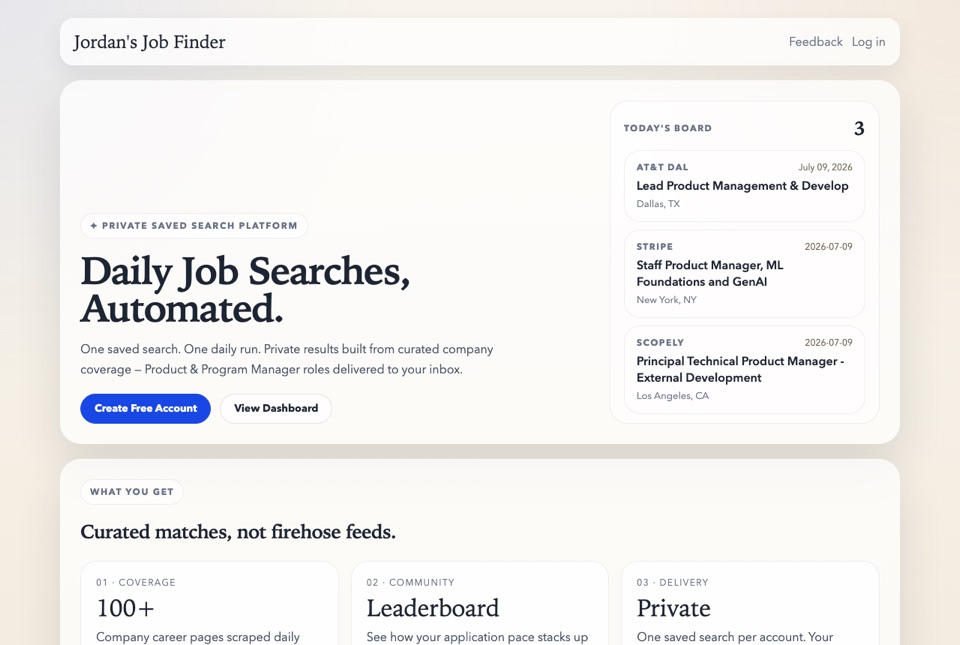
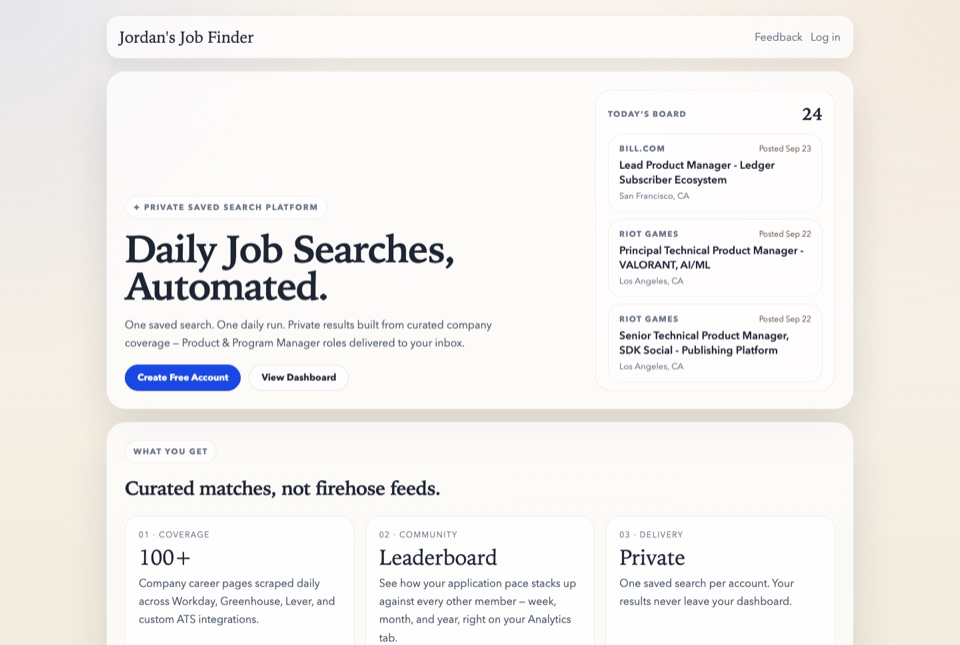
Put Marracat on the App Store in the portfolio and refresh screenshots
Marracat 1.0 went live on the App Store today. Its card (live since
9/13 but never committed) described the 9/13 app: one brand store per
checkout and no catalog numbers. It now shows the web + iPhone stack
like Find A Crib, the App Store link, and what the product does today:
~1,000 brands, 288 aisles, one set of checkout details across brands.
Wording stays with marracat.com's own positioning (independent brands).

Retook the web screenshots from the live sites (Sputter Bets with the
friends' names stripped from its pick rows). Apps shipped now lists
Marracat (App Store + marracat.com) and Haukley (TestFlight +
haukley.com): 12 iOS / 5 live / 7 beta / 15 web.

Changed region(s): [[0.0625, 0.031, 0.9375, 1.0]]

diff --git a/portfolio.html b/portfolio.html
@@ -29,7 +29,7 @@
                 <article class="portfolio-item portfolio-item-featured">
                     <div class="portfolio-thumb-stack">
                         <div class="portfolio-thumb portfolio-thumb-web">
-                            <a href="https://findacrib.com" target="_blank"><img src="screenshots/findacrib.jpg?v=2" alt="Find A Crib NYC rent-stabilized buildings map screenshot" width="960" height="600" decoding="async"></a>
+                            <a href="https://findacrib.com" target="_blank"><img src="screenshots/findacrib.jpg?v=3" alt="Find A Crib NYC rent-stabilized buildings map screenshot" width="960" height="600" decoding="async"></a>
                         </div>
                         <div class="portfolio-thumb portfolio-thumb-mobile">
                             <img src="screenshots/findacrib-ios.jpg?v=1" alt="Find A Crib iPhone app search screen with rent-stabilized, available-now and voucher filters" width="202" height="440" loading="lazy" decoding="async">
@@ -78,6 +78,30 @@
                 </article>
 
                 <article class="portfolio-item">
+                    <div class="portfolio-thumb-stack">
+                        <div class="portfolio-thumb portfolio-thumb-web">
+                            <a href="https://marracat.com" target="_blank" rel="noopener"><img src="screenshots/marracat.jpg?v=2" alt="Marracat storefront home page with departments, search, and featured brands" width="960" height="600" loading="lazy" decoding="async"></a>
+                        </div>
+                        <div class="portfolio-thumb portfolio-thumb-mobile">
+                            <img src="screenshots/marracat-ios.jpg?v=1" alt="Marracat iPhone app home screen with featured brand, new arrivals, and deals" width="202" height="440" loading="lazy" decoding="async">
+                        </div>
+                    </div>
+                    <div class="portfolio-body">
+                        <h3>Marracat &mdash; Your Next Favorite Brand, All in One Place (Web + iPhone App)</h3>
+                        <p class="project-date is-live" data-app-store="6810905687">On the App Store &middot; released Sep 23, 2026</p>
+                        <ul>
+                            <li>Nearly 1,000 independent brands and 39,000+ products in one store &mdash; fashion, beauty, bags, home, and everyday essentials, pulled straight from each brand&rsquo;s own shop</li>
+                            <li>Shop the way a department store is laid out: 288 aisles like &ldquo;tote bag&rdquo; or &ldquo;deep conditioner&rdquo; that search every brand at once, and a search box that finishes your phrase as you type</li>
+                            <li>One cart across every brand: enter your details once, see real shipping and totals per store, and pay each brand directly &mdash; the brand keeps the sale, the shipping, and the returns</li>
+                            <li>Save items into your own lists, and a Marracat Clean badge flags hair, skin, makeup, and body products with no ingredients banned anywhere</li>
+                            <li>Stack: SwiftUI, React + Vite, Node/Express + SQLite, Shopify product feeds, Checkout Kit and UCP checkout, an AI model that re-files misplaced products, and nginx on DigitalOcean</li>
+                        </ul>
+                        <a href="https://marracat.com" target="_blank" rel="noopener">Visit Live Site &rarr;</a> &nbsp;&nbsp;
+                        <a href="https://apps.apple.com/us/app/marracat/id6810905687" target="_blank" rel="noopener">Download on the App Store &rarr;</a>
+                    </div>
+                </article>
+
+                <article class="portfolio-item">
                     <div class="portfolio-thumb portfolio-thumb-mobile">
                         <img src="screenshots/crease.jpg?v=1" alt="Crease order list showing two-leg dry cleaning progress" width="202" height="440" loading="lazy" decoding="async">
                     </div>
@@ -109,7 +133,7 @@
 
                 <article class="portfolio-item">
                     <div class="portfolio-thumb portfolio-thumb-web">
-                        <a href="https://caprecruiting.com" target="_blank"><img src="screenshots/bearcats.jpg?v=2" alt="Collegiate Athletic Planning landing page screenshot" width="960" height="600" loading="lazy" decoding="async"></a>
+                        <a href="https://caprecruiting.com" target="_blank"><img src="screenshots/bearcats.jpg?v=3" alt="Collegiate Athletic Planning landing page screenshot" width="960" height="600" loading="lazy" decoding="async"></a>
                     </div>
                     <div class="portfolio-body">
                         <h3>Collegiate Athletic Planning &mdash; Getting High School Players Recruited</h3>
@@ -159,7 +183,7 @@
 
                 <article class="portfolio-item">
                     <div class="portfolio-thumb portfolio-thumb-web">
-                        <a href="https://sputterbets.com/" target="_blank"><img src="screenshots/nfl-predictor.jpg?v=1" alt="Sputter Bets week-by-week NFL picks with win-probability meters" width="960" height="600" loading="lazy" decoding="async"></a>
+                        <a href="https://sputterbets.com/" target="_blank"><img src="screenshots/nfl-predictor.jpg?v=2" alt="Sputter Bets week-by-week NFL picks with win-probability meters" width="960" height="600" loading="lazy" decoding="async"></a>
                     </div>
                     <div class="portfolio-body">
                         <h3>Sputter Bets &mdash; NFL Picks That Retrain Themselves Every Morning</h3>
@@ -176,7 +200,7 @@
 
                 <article class="portfolio-item">
                     <div class="portfolio-thumb portfolio-thumb-web">
-                        <a href="https://nemoseamlessgutter.com" target="_blank"><img src="screenshots/nemo.jpg?v=2" alt="NEMO Seamless Gutter homepage" width="960" height="645" loading="lazy" decoding="async"></a>
+                        <a href="https://nemoseamlessgutter.com" target="_blank"><img src="screenshots/nemo.jpg?v=3" alt="NEMO Seamless Gutter homepage" width="960" height="645" loading="lazy" decoding="async"></a>
                     </div>
                     <div class="portfolio-body">
                         <h3>NEMO Seamless Gutter &mdash; Booking That Checks the Weather, Plus an AI Phone Assistant</h3>
@@ -203,7 +227,7 @@
 
                 <article class="portfolio-item">
                     <div class="portfolio-thumb portfolio-thumb-web">
-                        <a href="https://skillsinbloom.com" target="_blank"><img src="screenshots/skills-in-bloom.jpg?v=1" alt="Skills in Bloom pediatric occupational therapy homepage" width="960" height="645" loading="lazy" decoding="async"></a>
+                        <a href="https://skillsinbloom.com" target="_blank"><img src="screenshots/skills-in-bloom.jpg?v=2" alt="Skills in Bloom pediatric occupational therapy homepage" width="960" height="645" loading="lazy" decoding="async"></a>
                     </div>
                     <div class="portfolio-body">
                         <h3>Skills in Bloom &mdash; A Pediatric Therapist&rsquo;s Site That Books Its Own Consultations</h3>
@@ -237,7 +261,7 @@
 
                 <article class="portfolio-item">
                     <div class="portfolio-thumb portfolio-thumb-web">
-                        <a href="https://jordansjobfinder.com" target="_blank"><img src="screenshots/jordansjobfinder.jpg?v=2" alt="Jordan&rsquo;s Job Finder daily job board screenshot" width="960" height="645" loading="lazy" decoding="async"></a>
+                        <a href="https://jordansjobfinder.com" target="_blank"><img src="screenshots/jordansjobfinder.jpg?v=3" alt="Jordan&rsquo;s Job Finder daily job board screenshot" width="960" height="645" loading="lazy" decoding="async"></a>
                     </div>
                     <div class="portfolio-body">
                         <h3>Jordan&rsquo;s Job Finder &mdash; A Job Search That Runs Itself</h3>

diff --git a/index.html b/index.html
@@ -229,19 +229,19 @@
                 <div class="gh-stats">
                     <div>
                         <span class="gh-stat-label">iOS apps</span>
-                        <span class="gh-stat-value" data-apps-stat="ios_total">10</span>
+                        <span class="gh-stat-value" data-apps-stat="ios_total">12</span>
                     </div>
                     <div>
                         <span class="gh-stat-label">On the App Store</span>
-                        <span class="gh-stat-value" data-apps-stat="ios_live">4</span>
+                        <span class="gh-stat-value" data-apps-stat="ios_live">5</span>
                     </div>
                     <div>
                         <span class="gh-stat-label">In TestFlight</span>
-                        <span class="gh-stat-value" data-apps-stat="ios_beta">6</span>
+                        <span class="gh-stat-value" data-apps-stat="ios_beta">7</span>
                     </div>
                     <div>
                         <span class="gh-stat-label">Web apps live</span>
-                        <span class="gh-stat-value" data-apps-stat="web_live">13</span>
+                        <span class="gh-stat-value" data-apps-stat="web_live">15</span>
                     </div>
                 </div>
 
@@ -249,6 +249,7 @@
                     <div class="apps-col">
                         <h3 class="apps-col-head">iOS</h3>
                         <ul class="apps-list" data-apps-ios>
+                            <li><a href="https://apps.apple.com/us/app/marracat/id6810905687" target="_blank" rel="noopener">Marracat</a><span class="apps-chip">App Store</span></li>
                             <li><a href="https://apps.apple.com/us/app/find-a-crib/id6807549249" target="_blank" rel="noopener">Find A Crib</a><span class="apps-chip">App Store</span></li>
                             <li><a href="https://apps.apple.com/us/app/workcomp/id6773055992" target="_blank" rel="noopener">WorkComp+</a><span class="apps-chip">App Store</span></li>
                             <li><a href="https://apps.apple.com/us/app/hidden-gems-local-picks/id6762203841" target="_blank" rel="noopener">Hidden Gems: Local Picks</a><span class="apps-chip">App Store</span></li>
@@ -259,6 +260,7 @@
                             <li><span>Pulse</span><span class="apps-chip is-beta">TestFlight</span></li>
                             <li><span>Clock In</span><span class="apps-chip is-beta">TestFlight</span></li>
                             <li><span>ShypQuick</span><span class="apps-chip is-beta">TestFlight</span></li>
+                            <li><span>Haukley</span><span class="apps-chip is-beta">TestFlight</span></li>
                         </ul>
                     </div>
                     <div class="apps-col">
@@ -276,6 +278,8 @@
                             <li><a href="https://sputterbets.com" target="_blank" rel="noopener">Sputter Bets</a><span class="apps-host">sputterbets.com</span></li>
                             <li><a href="https://arinatanacheva.com" target="_blank" rel="noopener">Arina Tanacheva</a><span class="apps-host">arinatanacheva.com</span></li>
                             <li><a href="https://skillsinbloom.com" target="_blank" rel="noopener">Skills in Bloom</a><span class="apps-host">skillsinbloom.com</span></li>
+                            <li><a href="https://marracat.com" target="_blank" rel="noopener">Marracat</a><span class="apps-host">marracat.com</span></li>
+                            <li><a href="https://haukley.com" target="_blank" rel="noopener">Haukley</a><span class="apps-host">haukley.com</span></li>
                             <li><a href="https://divinedavis.com" target="_blank" rel="noopener">This site</a><span class="apps-host">divinedavis.com</span></li>
                         </ul>
                     </div>

diff --git a/tools/update_apps.py b/tools/update_apps.py
@@ -60,6 +60,7 @@ BETA = [
     ("Pulse",              "com.divinedavis.pulse"),
     ("Clock In",           "com.divinedavis.ClockIn"),
     ("ShypQuick",          "com.Dev.Shyp-Quick"),
+    ("Haukley",            "com.haukley.app"),
 ]
 
 # Live web products. Counted only if they answer — see FAIL_STREAK.
@@ -76,6 +77,8 @@ WEB = [
     ("Sputter Bets",                 "sputterbets.com"),
     ("Arina Tanacheva",              "arinatanacheva.com"),
     ("Skills in Bloom",              "skillsinbloom.com"),
+    ("Marracat",                     "marracat.com"),
+    ("Haukley",                      "haukley.com"),
     ("This site",                    "divinedavis.com"),
 ]
 
